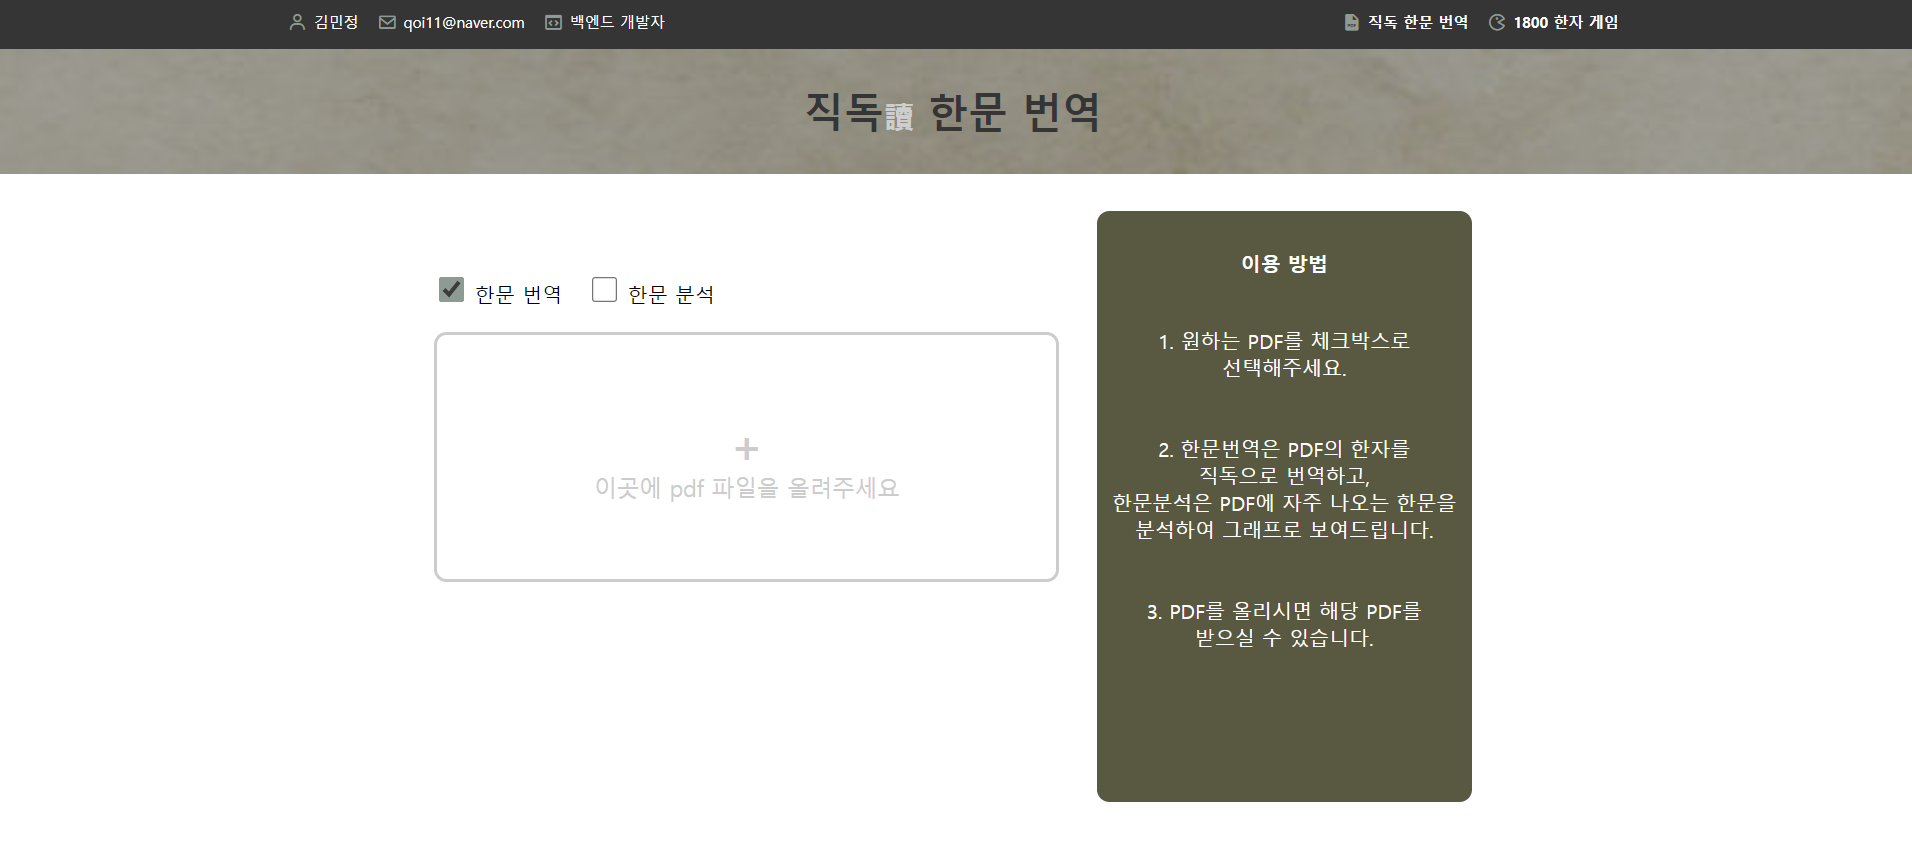
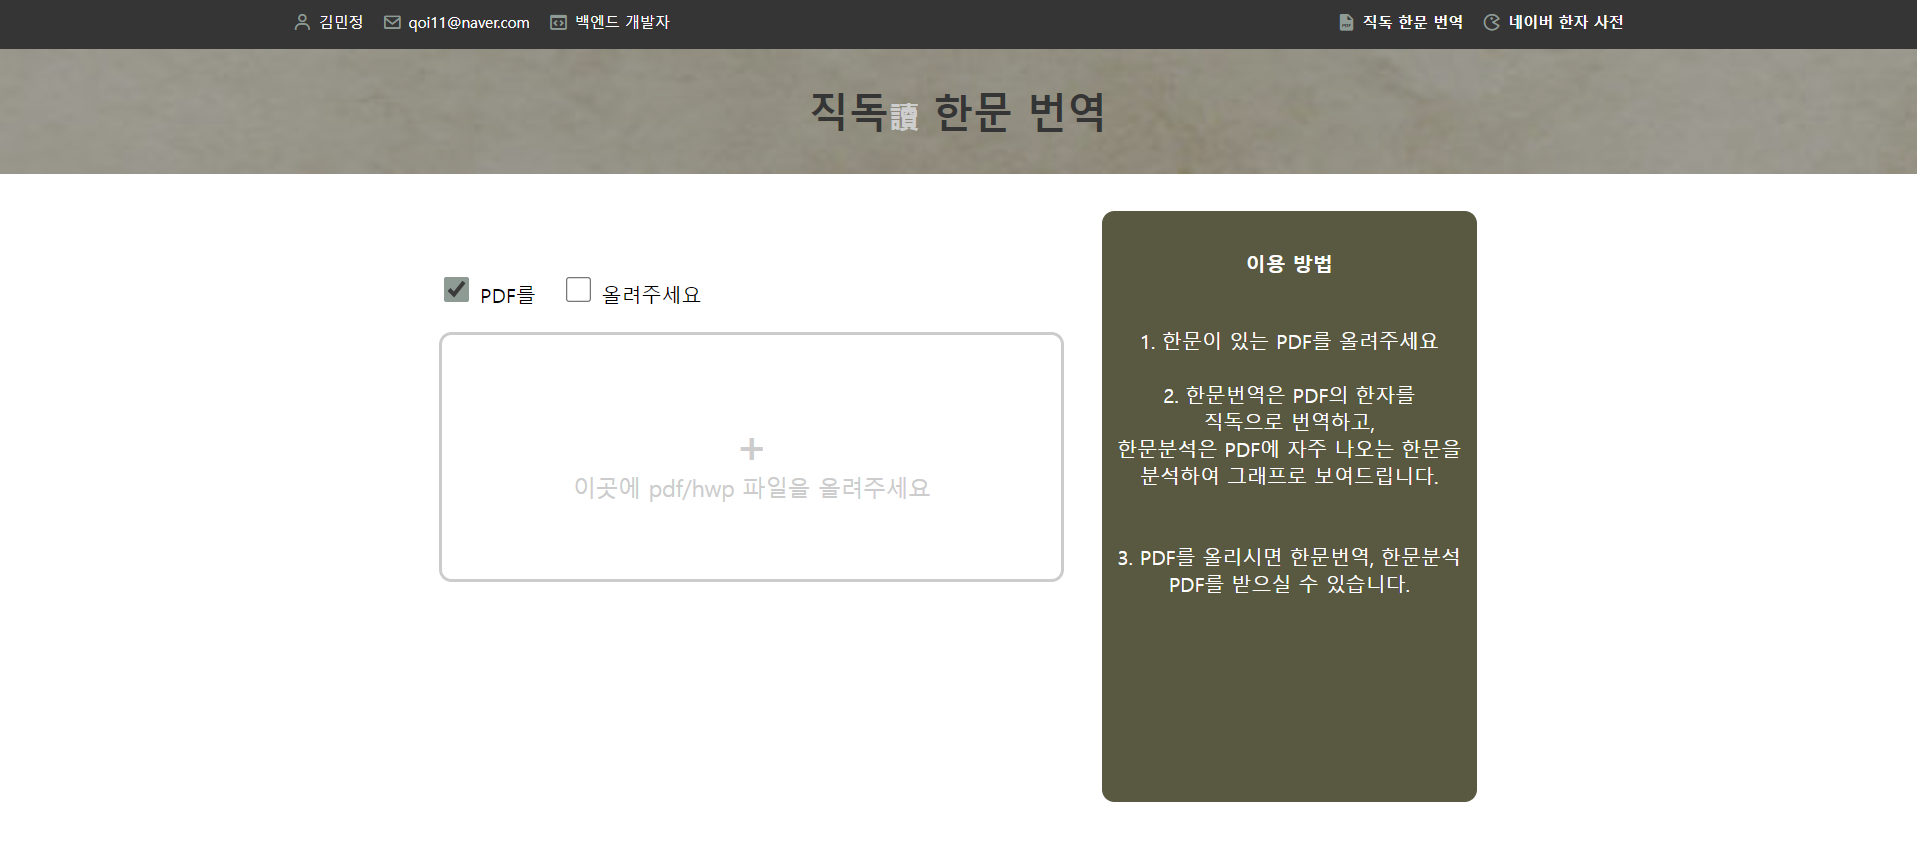
문서정리

diff --git a/translation/hanja/templates/hanja/main.html b/translation/hanja/templates/hanja/main.html
@@ -12,11 +12,11 @@
                     <div class="check">
                         <label class="custom-checkbox">
                             <input type="checkbox" id="checkbox1" name="checkbox1" checked>
-                            한문 번역
+                            PDF를
                         </label>
                         <label class="custom-checkbox">
                             <input type="checkbox" id="checkbox2" name="checkbox2">
-                            한문 분석
+                            올려주세요
                         </label>
                     </div>
                     <div class="put" onclick="document.getElementById('pdf-input').click()">
@@ -29,14 +29,13 @@
             <div class="explain">
                 <p>이용 방법</p>
                 <p>
-                    <div>1. 원하는 PDF,hwp를 체크박스로</div>
-                    <div>선택해주세요.</div><br><br>
-                    <div>2. 한문번역은 PDF,hwp의 한자를 </div>
+                    <div>1. 한문이 있는 PDF를 올려주세요</div><br>
+                    <div>2. 한문번역은 PDF의 한자를 </div>
                     <div>직독으로 번역하고,</div> 
                     <div> 한문분석은 PDF에 자주 나오는 한문을 </div> 
                     <div>분석하여 그래프로 보여드립니다.</div><br><br>
-                    <div>3. PDF,hwp를 올리시면 해당 PDF를</div>
-                    <div>받으실 수 있습니다.</div>
+                    <div>3. PDF를 올리시면 한문번역, 한문분석</div>
+                    <div>PDF를 받으실 수 있습니다.</div>
                 </p>
             </div>
         </div>

diff --git a/translation/hanja/static/js/main.js b/translation/hanja/static/js/main.js
@@ -1,36 +1,8 @@
-function check() {
-    const checkbox1 = document.getElementById('checkbox1').checked;
-    const checkbox2 = document.getElementById('checkbox2').checked;
-
-    let formdata = new FormData();
-    formdata.append('checkbox1', checkbox1 ? "t" : "f")
-    formdata.append('checkbox2', checkbox2 ? "t" : "f")
-
-    fetch ("/index/", {
-        method: "POST",
-        body: formdata,
-    })
-    .then(response => {
-    if (!response.ok) {
-        throw new Error(`서버 오류: ${response.status}`);
-    }
-    return response.json();
-    })
-    .catch(error => console.error('Error: ',error))
-}
-
 function uploadPDF() {
     const pdf = document.getElementById('pdf-input');
-    const checkbox1 = document.getElementById('checkbox1').checked;
-    const checkbox2 = document.getElementById('checkbox2').checked;
 
     const formData = new FormData();
     formData.append('pdf', pdf.files[0]);  // 파일 데이터
-    
-    const jsonData = JSON.stringify({
-        checkbox1: checkbox1 ? "t" : "f",
-        checkbox2: checkbox2 ? "t" : "f"
-    });
     
     fetch("/upload-pdf/", {
         method: "POST",

diff --git a/translation/hanja/templates/hanja/header.html b/translation/hanja/templates/hanja/header.html
@@ -18,7 +18,7 @@
             </div>
             <div class="category">
                 <h1><i class='bx bxs-file-pdf'></i> <a href="http://127.0.0.1:8000/"><span>직독 한문 번역</span></a></h1>
-                <h1><i class='bx bx-game'></i> <a href="#"><span>1800 한자 게임</span></a></h1>
+                <h1><i class='bx bx-game'></i> <a href="https://hanja.dict.naver.com/#/main"><span>네이버 한자 사전</span></a></h1>
             </div>
         </div>
     </header>

diff --git a/translation/hanja/views.py b/translation/hanja/views.py
@@ -52,18 +52,6 @@ def pdf_frame():
 
 
 
-
-# pdf 번역 생성
-def pdf_generation1(L: list):
-    doc = BaseDocTemplate(str('7 술이.pdf'), pagesize=A4)
-    frontpage = PageTemplate(id='FrontPage',
-                                frames=[pdf_frame()]
-                    )
-    doc.addPageTemplates(frontpage)
-    doc.build(L)
-
-
-
 # 도넛 그래프 생성 
 def pie_graph(df: pd.DataFrame):
     
@@ -95,7 +83,7 @@ def pie_graph(df: pd.DataFrame):
 
 
 
-# pdf 데이터분석 생성 
+# pdf 한자분석 생성 
 def pdf_generation(L, df: pd.DataFrame):
     
     img_buffer = pie_graph(df)
@@ -113,7 +101,80 @@ def pdf_generation(L, df: pd.DataFrame):
     doc.build(elements)  # PDF 생성
     
     img_buffer.close()
+    
+    
+    
+# 한자 분석 
+def hanja_analysis(pdf):
+    pdfmetrics.registerFont(TTFont("맑은고딕", "malgun.ttf"))
+    
+    M=[]
+    L=[]
+    
 
+    reader = PdfReader(pdf)
+    pages = reader.pages
+    
+    for page in pages:
+        text = page.extract_text()
+        lines = text.split('\n')
+        for line in lines:
+            # 한글, 숫자, 영어, 특수문자 제거
+            hanjas = re.sub(r'[A-z가-힣0-9\s~"!@#$%^&*()_+=\-:;,.<>?/|\\{}[\] ]', '', line)
+            for hanja in hanjas:
+                M.append(hanja)
+    
+    count = Counter(M)
+    sorted_desc = sorted(count.items(), key=lambda x: x[1], reverse=True)
+    if len(sorted_desc) > 20:
+        sorted_desc = sorted_desc[:20]
+    df = pd.DataFrame(sorted_desc, columns=['한자', '빈도수'])
+    
+    
+    for i in range(1, len(sorted_desc)+1):
+        hanja = sorted_desc[i-1][0]
+        mean = ""
+        try:
+            mean = Hanja.objects.get(hanja=hanja).mean
+        except Hanja.MultipleObjectsReturned:
+            mean = Hanja.objects.filter(hanja=hanja).first().mean
+        except Hanja.DoesNotExist:
+            driver = webdriver.Chrome()
+            driver.get(f'https://hanja.dict.naver.com/#/search?query={hanja}')
+            WebDriverWait(driver, 60).until(
+                ec.presence_of_element_located((By.CSS_SELECTOR, '#searchLetterPage_content'))
+            )
+            
+            html = driver.page_source
+            soup = BeautifulSoup(html, 'html.parser')
+            
+            mean = soup.select_one(".mean").text.strip()
+            stroke = soup.find('div', string='총 획수').find_next_sibling().text.split("획")[0]
+            
+            Hanja.objects.create(hanja=hanja, mean=mean, stroke=stroke)
+        texts = str(i)+"위  " + hanja+": " + mean
+        L.append(texts)
+        
+    pdf_generation(L, df)
+
+
+
+
+
+
+
+
+
+
+
+# pdf 번역 생성
+def pdf_generation1(L: list):
+    doc = BaseDocTemplate(str('7 술이.pdf'), pagesize=A4)
+    frontpage = PageTemplate(id='FrontPage',
+                                frames=[pdf_frame()]
+                    )
+    doc.addPageTemplates(frontpage)
+    doc.build(L)
 
 
 
@@ -185,92 +246,19 @@ def traslation(pdf):
 
 
 
-# 한자 분석 
-def hanja_analysis(pdf):
-    pdfmetrics.registerFont(TTFont("맑은고딕", "malgun.ttf"))
-    
-    M=[]
-    L=[]
-    
-
-    reader = PdfReader(pdf)
-    pages = reader.pages
-    
-    for page in pages:
-        text = page.extract_text()
-        lines = text.split('\n')
-        for line in lines:
-            # 한글, 숫자, 영어, 특수문자 제거
-            hanjas = re.sub(r'[A-z가-힣0-9\s~"!@#$%^&*()_+=\-:;,.<>?/|\\{}[\] ]', '', line)
-            for hanja in hanjas:
-                M.append(hanja)
-    
-    count = Counter(M)
-    sorted_desc = sorted(count.items(), key=lambda x: x[1], reverse=True)
-    if len(sorted_desc) > 20:
-        sorted_desc = sorted_desc[:20]
-    df = pd.DataFrame(sorted_desc, columns=['한자', '빈도수'])
-    
-    
-    for i in range(1, len(sorted_desc)+1):
-        hanja = sorted_desc[i-1][0]
-        mean = ""
-        try:
-            mean = Hanja.objects.get(hanja=hanja).mean
-        except Hanja.MultipleObjectsReturned:
-            mean = Hanja.objects.filter(hanja=hanja).first().mean
-        except Hanja.DoesNotExist:
-            driver = webdriver.Chrome()
-            driver.get(f'https://hanja.dict.naver.com/#/search?query={hanja}')
-            WebDriverWait(driver, 60).until(
-                ec.presence_of_element_located((By.CSS_SELECTOR, '#searchLetterPage_content'))
-            )
-            
-            html = driver.page_source
-            soup = BeautifulSoup(html, 'html.parser')
-            
-            mean = soup.select_one(".mean").text.strip()
-            stroke = soup.find('div', string='총 획수').find_next_sibling().text.split("획")[0]
-            
-            Hanja.objects.create(hanja=hanja, mean=mean, stroke=stroke)
-        texts = str(i)+"위  " + hanja+": " + mean
-        L.append(texts)
-        
-    pdf_generation(L, df)
 
 
 
 
-def check(request):
-    checkbox1 = request.POST.get("checkbox1") 
-    checkbox2 = request.POST.get("checkbox2")
-        
-    print(checkbox1)
+
 
 
 # pdf 업로드 
 def upload_pdf(request):
-    if request.method == 'POST' and request.FILES.get('pdf'):
-        
-        pdf = request.FILES.get('pdf')
-        checkbox1 = request.POST.get("checkbox1") 
-        checkbox2 = request.POST.get("checkbox2")
-        
-        print("POST data:", request.POST)
-        print(checkbox1)
     
-        if pdf is None:
-            return JsonResponse({"error": "파일이 업로드되지 않았습니다."}, status=400)
-        
-        if (checkbox1 and not checkbox2):
-            print("aaaa")
-            traslation(pdf)
-        if (not checkbox1 and checkbox2):
-            print("bbbbb")
-            hanja_analysis(pdf)
-        if (checkbox1 and checkbox2):
-            print("ccccc")
-            traslation(pdf)
-            hanja_analysis(pdf)
+    if request.method == 'POST' and request.FILES.get('pdf'):
+        pdf = request.FILES.get('pdf')
+        traslation(pdf)
+        hanja_analysis(pdf)
 
     return HttpResponse("fdgdf")

diff --git a/translation/readme.md b/translation/readme.md
@@ -3,7 +3,7 @@
 <br>
 
 > 개인 프로젝트  
-> 개발기간: 2025.01.24 ~ 
+> 개발기간: 2025.01.24 ~ 2025.02.05
 
 <br>
 
@@ -14,8 +14,6 @@
 ### 프로젝트 소개
 - 한자가 포함된 PDF 파일을 한 줄씩 번역하여 번역된 PDF 파일로 생성한 후 사용자에게 제공합니다.
 - PDF 파일의 한자 빈도수를 분석하여 외워야 할 순위, 빈도 그래프를 PDF로 제공합니다.
-- 한자번역, 한자분석을 체크박스로 선택하여 원하는 PDF를 받을 수 있습니다.
-- 상용한자 1800제로 게임을 하여 한자를 쉽게 익힐 수 있습니다.
 
 ### 개발환경
 - 백엔드: python 3.12.8, Django 5.1.4, Mysql 8.0.36
@@ -26,7 +24,9 @@
 ```
 │   db.sqlite3
 │   manage.py
+│   my_settings.py
 │   readme.md
+│   test.ipynb
 │
 ├───hanja
 │   │   admin.py
@@ -38,9 +38,11 @@
 │   │   __init__.py
 │   │
 │   ├───migrations
+│   │   │   0001_initial.py
 │   │   │   __init__.py
 │   │   │
 │   │   └───__pycache__
+│   │           0001_initial.cpython-312.pyc
 │   │           __init__.cpython-312.pyc
 │   │
 │   ├───static
@@ -48,9 +50,12 @@
 │   │   │       header.css
 │   │   │       main.css
 │   │   │
-│   │   └───img
-│   │           hanji.png
-│   │           site.png
+│   │   ├───img
+│   │   │       hanji.png
+│   │   │       site.png
+│   │   │
+│   │   └───js
+│   │           main.js
 │   │
 │   ├───templates
 │   │   └───hanja
@@ -58,15 +63,28 @@
 │   │           main.html
 │   │
 │   └───__pycache__
+│           admin.cpython-312.pyc
+│           apps.cpython-312.pyc
+│           models.cpython-312.pyc
+│           urls.cpython-312.pyc
+│           views.cpython-312.pyc
+│           __init__.cpython-312.pyc
 │
-└───mysite
-    │   asgi.py
-    │   settings.py
-    │   urls.py
-    │   wsgi.py
-    │   __init__.py
-    │
-    └───__pycache__
+├───mysite
+│   │   asgi.py
+│   │   settings.py
+│   │   urls.py
+│   │   wsgi.py
+│   │   __init__.py
+│   │
+│   └───__pycache__
+│           settings.cpython-312.pyc
+│           urls.cpython-312.pyc
+│           wsgi.cpython-312.pyc
+│           __init__.cpython-312.pyc
+│
+└───__pycache__
+        my_settings.cpython-312.pyc
 
 ```
 
